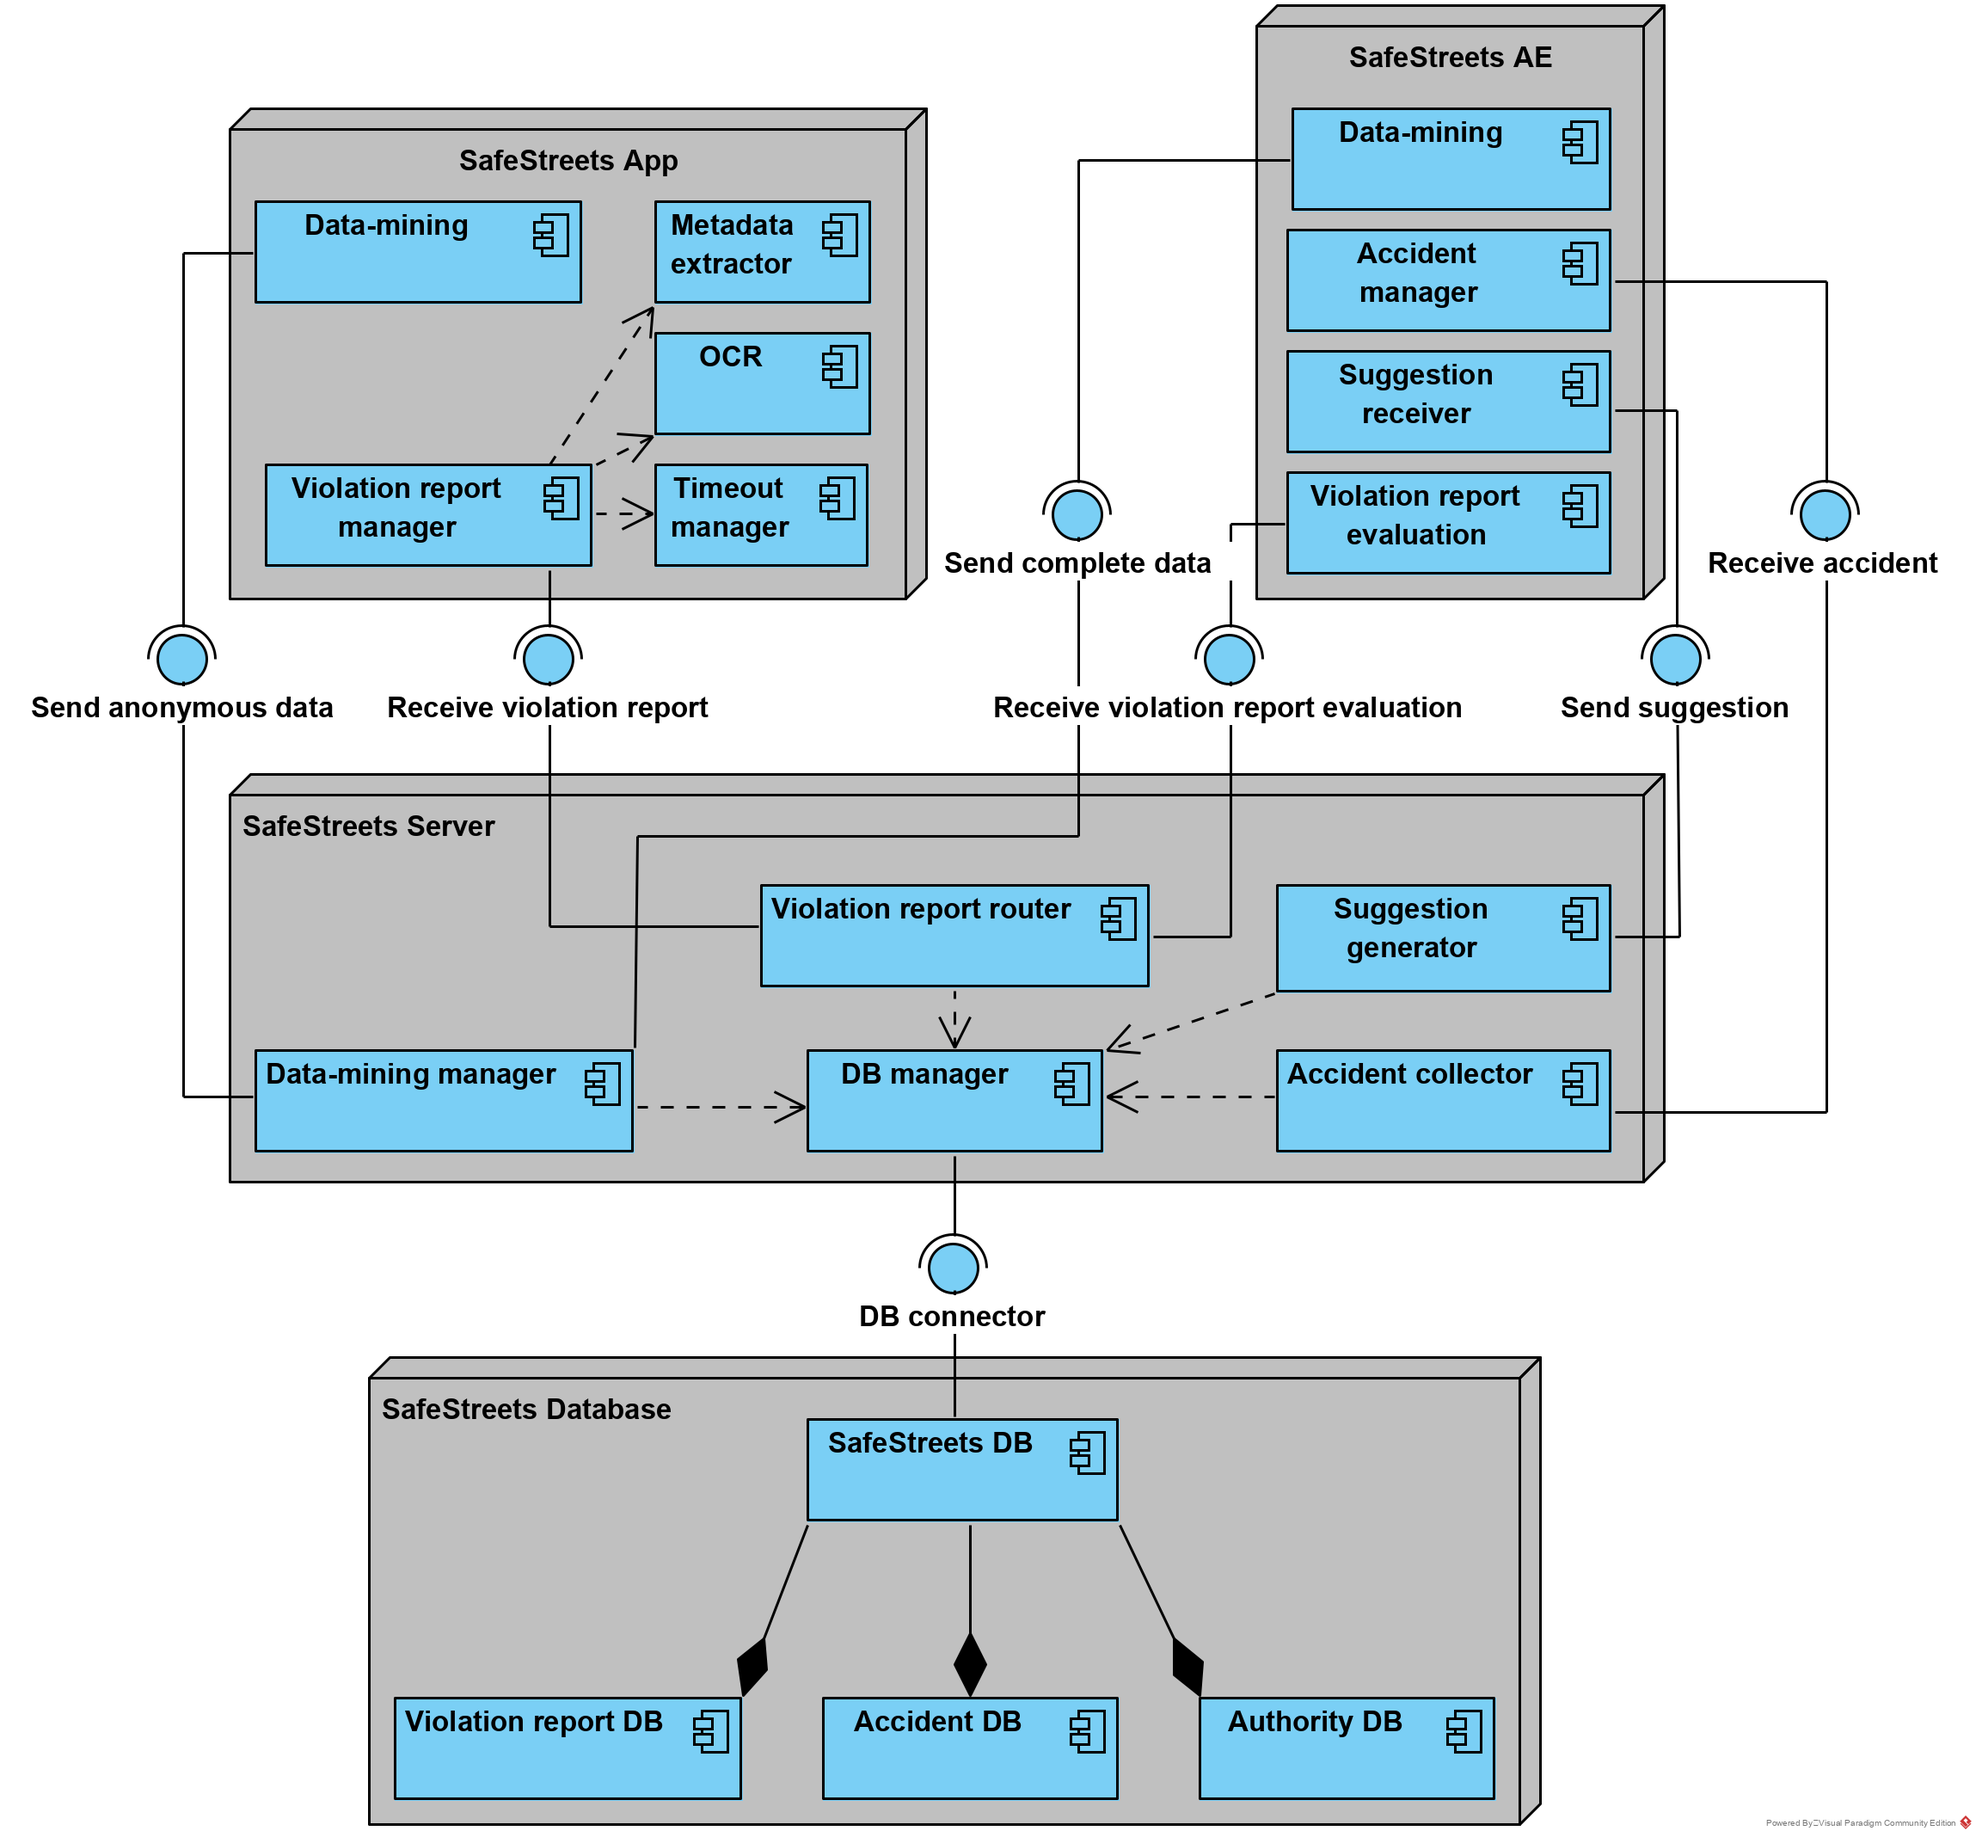
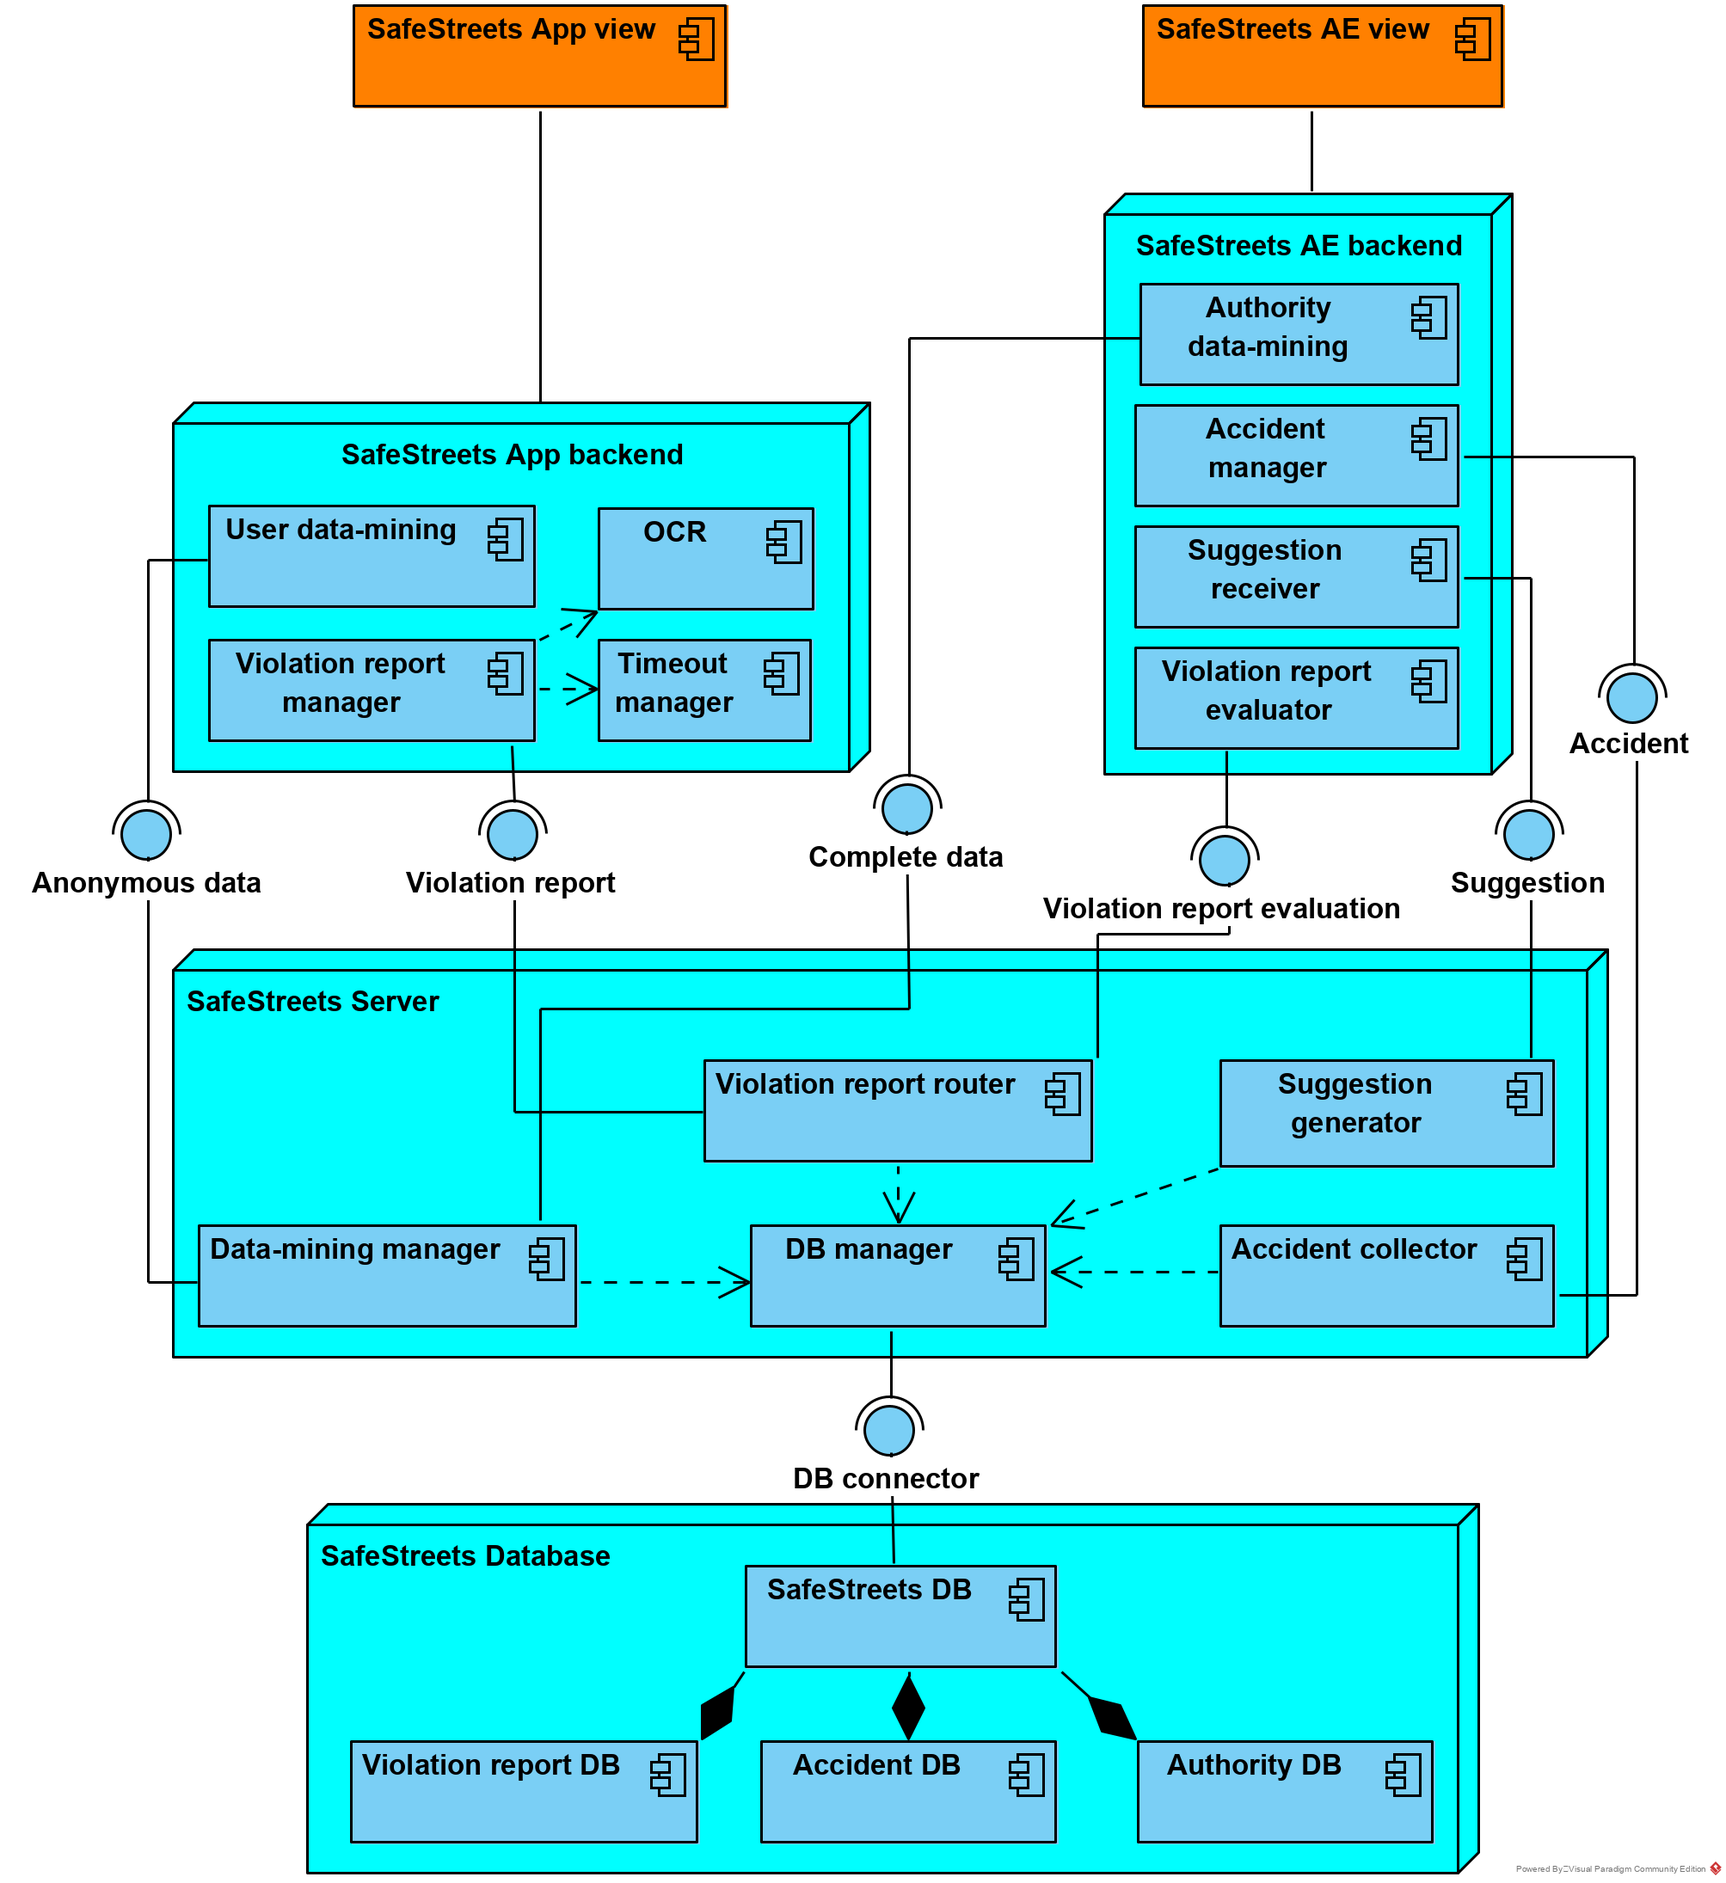
Section "Component view" completed.
Please, read it and tell me if there's something wrong.

diff --git a/DD/DD.tex b/DD/DD.tex
@@ -70,7 +70,7 @@
 		\begin{itemize}
 			\item Overview of the high level architecture;
 			\item The main components, their interfaces; 
-			\item The runtime behavior; 
+			\item The runtime behaviour; 
 			\item The design patterns;
 			\item Additional details about user interface;
 			\item A mapping of the requirements on the architecture's components;
@@ -164,17 +164,61 @@
 		The \textit{Individuals Layer} includes the two different kind of applications used by individuals. The distinction between applications is made because the two different implementation include different functionalities and, eventually, a different kind of interaction with the server with respect to the granularity of informations exchanged between them. \\
 		The \textit{Server Layer} contains all the managerial components to interact correctly with individuals. It is also important as a security step. Indeed, individuals never communicate with the DBMS, that contains sensitive informations. They have to make requests to server and it manage them forwarding data requests to the DBMS. \\
 		The \textit{Data Layer} is simply defined only by the data management system, that collects and execute queries from relational databases.
+		
 		\clearpage
 		\subsection{Component view}
-		Figure \ref{fig:component_diagram} represents all the components of SafeStreets ecosystem: SafeStreets App, SafeStreets AE (Authority Edition), SafeStreets Server and the database.\\
-		The clients, so SafeStrees app and SafeStreetsAE, are not thin: they include part of the application logic. For example, the server receives violation reports the has already been validated by the app.
+		Figure \ref{fig:component_diagram} represents all the components of SafeStreets ecosystem.\\
+		The diagram focuses on the applicative layer: the view layer is described in the section "User interfaces" of the RASD.\\
+		The diagram underlines that the clients, SafeStreets app and SafeStreets AE, are not thin: they include part of the application logic.\\
+		
 		\begin{figure}[H]
-			\includegraphics [scale=0.65] {diagrams/component_diagram.png}
+			\includegraphics [scale=0.8] {diagrams/component_diagram.png}
 			\caption[Component diagram]{Component diagram}
 			\label{fig:component_diagram}
 		\end{figure}
 		
-		\subsection{Deployment	view}
+		\clearpage
+		For each component of each node, a description of its role is given.
+		
+		\subsubsection{SafeStreets App components}
+		\begin{itemize}
+			\item \textbf{Violation report manager}\\
+			It deals with the management of a request for a violation report. First of all, it manages the acquisition of the reporting image: it automatically retrieves information about date, time and position. Afterwards, it forwards the image to the license plate recognition algorithm (OCR). If the algorithm returns a valid license plate and the user confirms the request by the deadline of the reporting timeout, then the violation report manager sends such report to the SafeStreets Server through the "violation report" interface.
+			\item \textbf{User data-mining}\\
+			This component provides data mining and statistical survey capabilities to SafeStreets app. Remember that SafeStreets App doesn't receive information considered private from the server, in particular it doesn't receive the license plates associated to violations or accidents. The component retrieves information from the server through the "anonymous data" interface.
+			\item \textbf{OCR}\\
+			This is the software used in order to retrieve a valid license plate from the reporting image. When it receives an image from the violation report manager, it looks for a valid license plate into the image, then returns an error message or the license plate found.
+			\item \textbf{Timeout manager}\\
+			It manages the report timeout. When the user starts a new violation report request, a timeout starts: if the timeout ends, the timeout manager sends a message to the violation report manager in order to cancel the current violation report request.
+		\end{itemize}
+		\subsubsection{SafeStreets AE components}
+		\begin{itemize}
+			\item \textbf{Violation report evaluator}\\
+			This component receives violation reports from the server, via the "violation report evaluation" interface. After that, it manages the evaluation of the same by the authority. Once the evaluation has taken place, the violation report evaluator sends the result to the server through the aforementioned interface.
+			\item \textbf{Authority data-mining}\\
+			This component provides data mining and statistical survey capabilities to SafeStreets AE. Remember that SafeStreets AE can also retrieve information about the license plates linked to accidents and violations. The component retrieves information from the server through the "complete data" interface.
+			\item \textbf{Suggestion receiver}\\
+			It waits for suggestions from the SafeStreets Server, listening the "suggestion" interface. Then it forwards the information to the view and stores the received suggestion into a database, which is not shown into the component diagram because its role is not very relevant.
+			\item \textbf{Accident manager}\\
+			It manages the forwarding of incident-related information from an authority to SafeStreets Server. It ensures that the reporting of the accident is accompanied by all the data deemed necessary (see RASD, 3.2.1 for more details), after which it forwards the same to the server through the "accident" interface.
+		\end{itemize}
+		\subsubsection{SafeStreets Server components}
+		\begin{itemize}
+			\item \textbf{Violation report router}\\
+			It passes violation reports received from users to the database. Also, it routes them to the authorities through the "violation report evaluation" interface, so they can be evaluated. The router follows a precise routing policy: it reads the position associated with the violation report, after which it consults the authority database: if there is an authority with has "municipal" jurisdiction for that area, the report is forwarded to it. Otherwise, an authority with "provincial" competence is sought for that area. If this is not the case, an authority with "state" jurisdiction is sought. If no authority can handle the validation of the report, it is not forwarded to any authority.
+			\item \textbf{Data-mining manager}\\
+			This component handles data requests from SafeStreets clients. In particular, it deals with extracting the data requested from the SafeStreets database, through the DB manager, filtering such data according to the authorizations of visibility available to the applicant. If the applicant is an authority, it can view all the data; if you are a user, the license and image information is deleted before sending it through the "anonymous data" interface.
+			\item \textbf{Suggestion generator}\\
+			When SafeStreets Server receives a new confirmation of violation or a new incident report, it is also received by this component, which compares the newly obtained data with those already saved in the database. Depending on a table of which it is available, it can generate advice to be sent to the authorities in order to avoid the repetition of certain dangerous situations, through the "suggestions" interface.
+			\item \textbf{Accident collector}\\
+			This component listens for new incident reports through the "accident" interface. The correctness of these reports has already been confirmed by SafeStreets AE, so it is only necessary to send the new data to the DB manager, so that they are saved in the database.
+			\item \textbf{DB manager}\\
+			It manages the interaction between SafeStreets Server and SafeStreets Database. All the components of the server that wants to interact with the database has to pass through this component. This means that in the event of updates to the structure or operation of the database, only the DB manager may need to be updated, guaranteeing better independence between the server and the database.
+		\end{itemize}
+		\subsubsection{SafeStreets Database components}
+		The database stores all the information used by SafeStreets ecosystem. It is composed by three sub-databases, whose role can easily be understood from their name: \textbf{Violation report DB}, \textbf{Accident DB} and \textbf{Authority DB}.
+		
+		\subsection{Deployment view}
 		\subsection{Runtime	view}
 		\subsection{Component interfaces}
 		\subsection{Selected architectural styles and patterns}
